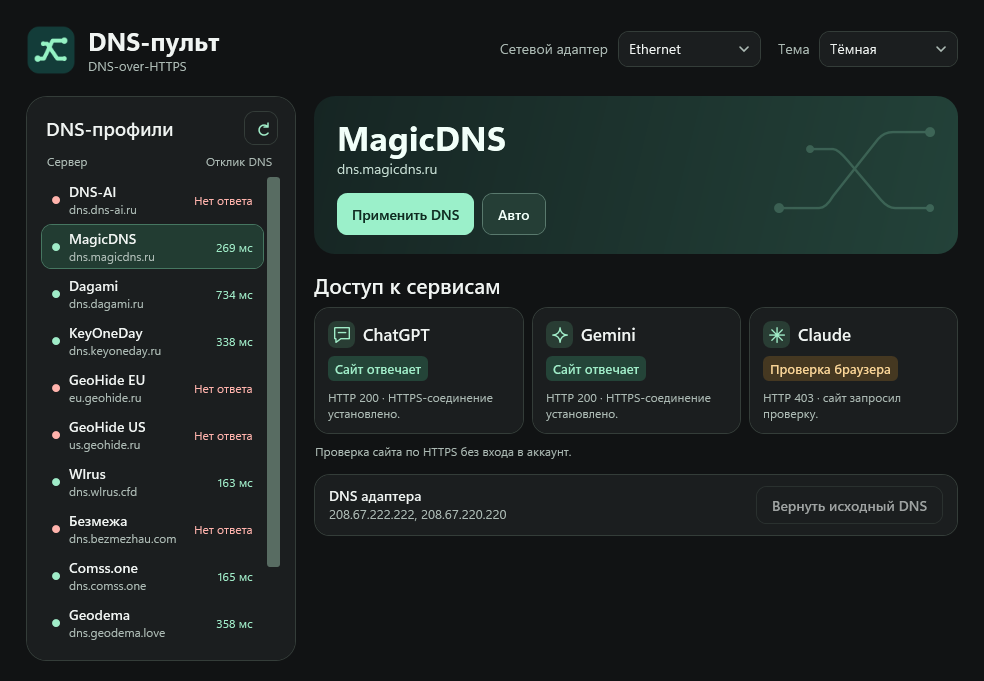
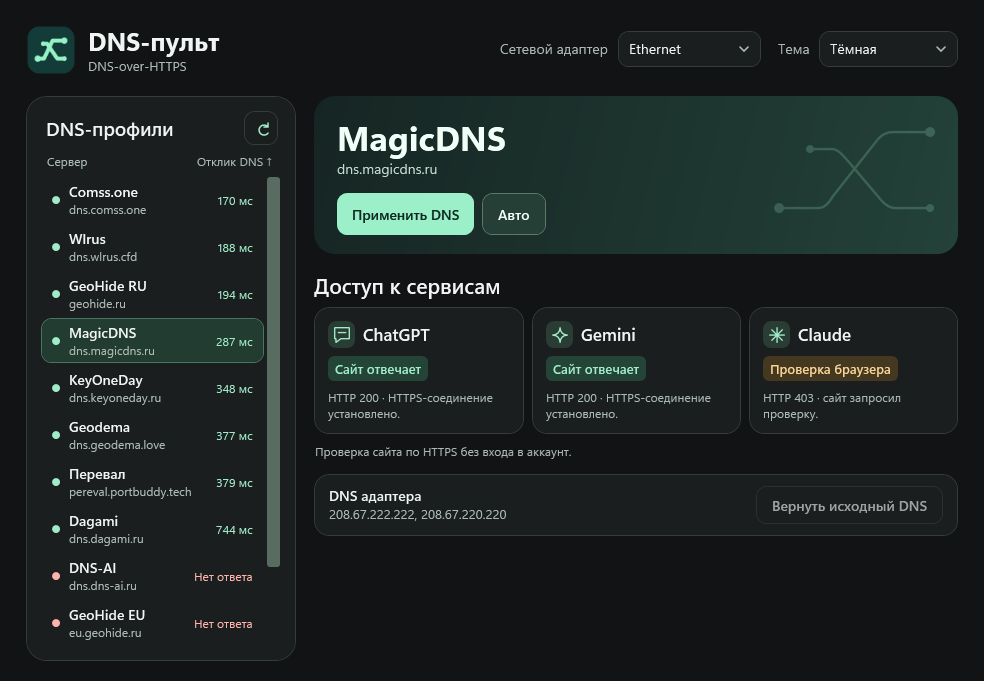
Sort DNS profiles by response time

diff --git a/MainWindow.xaml b/MainWindow.xaml
@@ -255,7 +255,8 @@
                             </Button>
                         </Grid>
                         <TextBlock Grid.Row="1" Text="Сервер" Foreground="{DynamicResource Muted}" FontSize="12" Margin="7,0,8,6"/>
-                        <TextBlock Grid.Row="1" Text="Отклик DNS" Foreground="{DynamicResource Muted}" FontSize="12" HorizontalAlignment="Right" Margin="0,0,10,6"/>
+                        <TextBlock Grid.Row="1" Text="Отклик DNS ↑" Foreground="{DynamicResource Muted}" FontSize="12"
+                                   HorizontalAlignment="Right" Margin="0,0,10,6" ToolTip="Сначала самые быстрые DNS. Серверы без ответа внизу."/>
                         <ListBox x:Name="ProfileList" Grid.Row="2" Background="Transparent" BorderThickness="0" Padding="0"
                                  ItemContainerStyle="{StaticResource ProfileItem}" ScrollViewer.HorizontalScrollBarVisibility="Disabled"
                                  ScrollViewer.VerticalScrollBarVisibility="Auto"

diff --git a/MainForm.cs b/MainForm.cs
@@ -1,3 +1,4 @@
+using System.Collections.ObjectModel;
 using System.ComponentModel;
 using System.Diagnostics;
 using System.Globalization;
@@ -15,11 +16,11 @@ internal partial class MainForm : Window
 {
     private readonly CancellationTokenSource _lifetime = new();
     private readonly DispatcherTimer _timer = new() { Interval = TimeSpan.FromMinutes(1) };
-    private readonly ProfileRow[] _rows;
+    private readonly ObservableCollection<ProfileRow> _rows;
     private readonly (ContentControl Card, WebService Service)[] _serviceCards;
     private CancellationTokenSource? _refresh;
     private CancellationTokenSource? _serviceCheck;
-    private Task<Reading>[]? _readings;
+    private Dictionary<Profile, Task<Reading>>? _readings;
     private bool _ready;
     private bool _working;
     private bool _loadingAdapters;
@@ -41,9 +42,9 @@ internal partial class MainForm : Window
         ThemePicker.ItemsSource = Themes;
         ThemePicker.SelectedItem = Themes.Single(option => option.Choice == _theme);
         UpdateTheme();
-        _rows = DnsProfiles.All.Select(profile => new ProfileRow(profile)).ToArray();
+        _rows = new ObservableCollection<ProfileRow>(DnsProfiles.All.Select(profile => new ProfileRow(profile)));
         ProfileList.ItemsSource = _rows;
-        ProfileList.SelectedIndex = 1;
+        ProfileList.SelectedItem = _rows[1];
         _serviceCards =
         [
             (ChatCard, ServiceProbe.ChatGpt),
@@ -119,16 +120,16 @@ internal partial class MainForm : Window
         {
             foreach (var row in _rows)
                 row.Set(connected ? "Проверка…" : "Нет сети", ServiceState.Waiting);
-            _readings = connected
-                ? DnsProfiles.All.Select(profile => DnsProfiles.Check(profile, refresh.Token, adapter)).ToArray()
+            var readings = connected
+                ? _rows.ToDictionary(row => row.Profile, row => DnsProfiles.Check(row.Profile, refresh.Token, adapter))
                 : null;
-            if (_readings is null)
+            _readings = readings;
+            if (readings is null)
             {
                 await InspectServicesAsync();
                 return;
             }
-            var paint = _readings.Select((reading, index) => PaintAsync(reading, _rows[index], refresh.Token));
-            await Task.WhenAll(paint.Append(InspectServicesAsync()));
+            await Task.WhenAll(RefreshOrderAsync(readings, refresh.Token), InspectServicesAsync());
         }
         catch (OperationCanceledException) when (refresh.IsCancellationRequested)
         {
@@ -144,12 +145,25 @@ internal partial class MainForm : Window
         }
     }
 
+    private async Task RefreshOrderAsync(Dictionary<Profile, Task<Reading>> readings, CancellationToken token)
+    {
+        await Task.WhenAll(_rows.Select(row => PaintAsync(readings[row.Profile], row, token)));
+        token.ThrowIfCancellationRequested();
+        var sorted = _rows.OrderBy(row => !row.Milliseconds.HasValue).ThenBy(row => row.Milliseconds).ToArray();
+        for (var index = 0; index < sorted.Length; index++)
+        {
+            var oldIndex = _rows.IndexOf(sorted[index]);
+            if (oldIndex != index)
+                _rows.Move(oldIndex, index);
+        }
+    }
+
     private async Task PaintAsync(Task<Reading> pending, ProfileRow row, CancellationToken token)
     {
         var reading = await pending;
         token.ThrowIfCancellationRequested();
         if (reading.Milliseconds is long milliseconds)
-            row.Set($"{milliseconds} мс", ServiceState.Reachable);
+            row.Set($"{milliseconds} мс", ServiceState.Reachable, milliseconds);
         else
             row.Set(reading.Status, ServiceState.Unreachable);
     }
@@ -165,8 +179,7 @@ internal partial class MainForm : Window
         using var check = CancellationTokenSource.CreateLinkedTokenSource(_lifetime.Token);
         _serviceCheck = check;
         var adapter = SelectedAdapter;
-        var index = ProfileList.SelectedIndex;
-        var pending = _readings?[index];
+        var pending = _readings?.GetValueOrDefault(row.Profile);
         var status = pending is null
             ? Waiting("Нет сети", "Подключите сетевой адаптер для проверки.")
             : Waiting("Проверка…", $"Проверяем сайт через {row.Name}.");
@@ -233,7 +246,7 @@ internal partial class MainForm : Window
                     return;
                 }
                 profile = selected.Profile;
-                ProfileList.SelectedIndex = Array.IndexOf(DnsProfiles.All, profile);
+                ProfileList.SelectedItem = _rows.First(row => row.Profile == profile);
                 SetAction($"{profile.Name} · подтвердите изменение DNS в окне Windows.");
             }
             else
@@ -374,12 +387,14 @@ internal partial class MainForm : Window
         public string Host => Profile.Host;
         public string Status { get; private set; } = "Ожидание";
         public ServiceState State { get; private set; } = ServiceState.Waiting;
+        public long? Milliseconds { get; private set; }
         public event PropertyChangedEventHandler? PropertyChanged;
 
-        public void Set(string status, ServiceState state)
+        public void Set(string status, ServiceState state, long? milliseconds = null)
         {
             Status = status;
             State = state;
+            Milliseconds = milliseconds;
             PropertyChanged?.Invoke(this, new(nameof(Status)));
             PropertyChanged?.Invoke(this, new(nameof(State)));
         }
